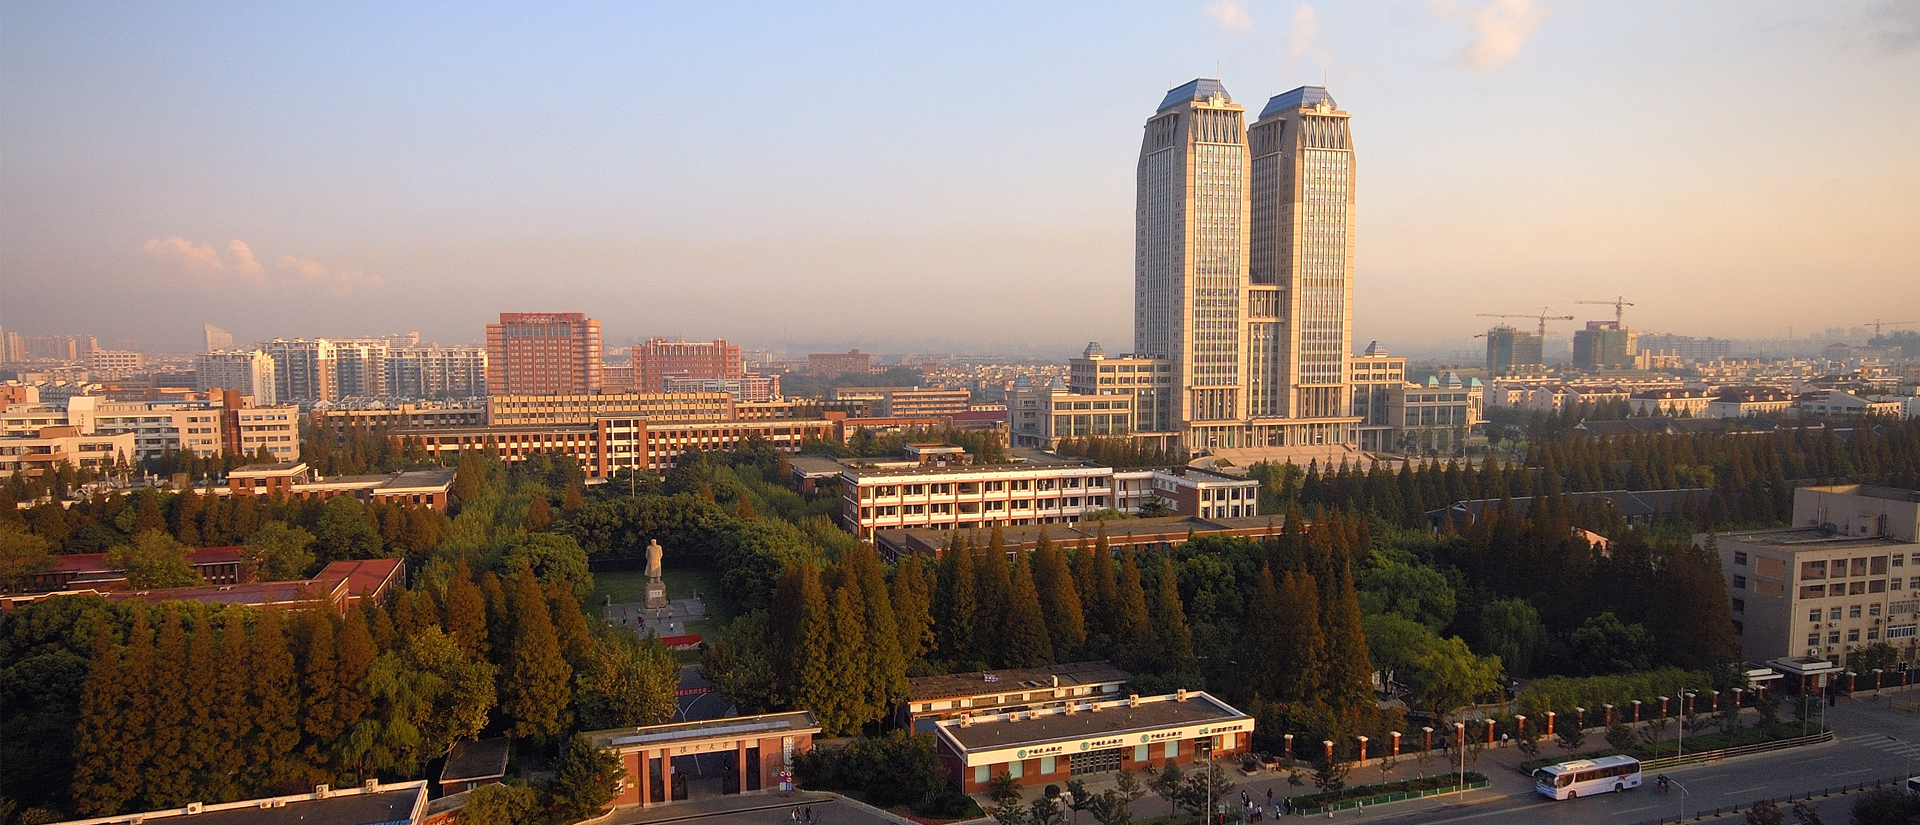
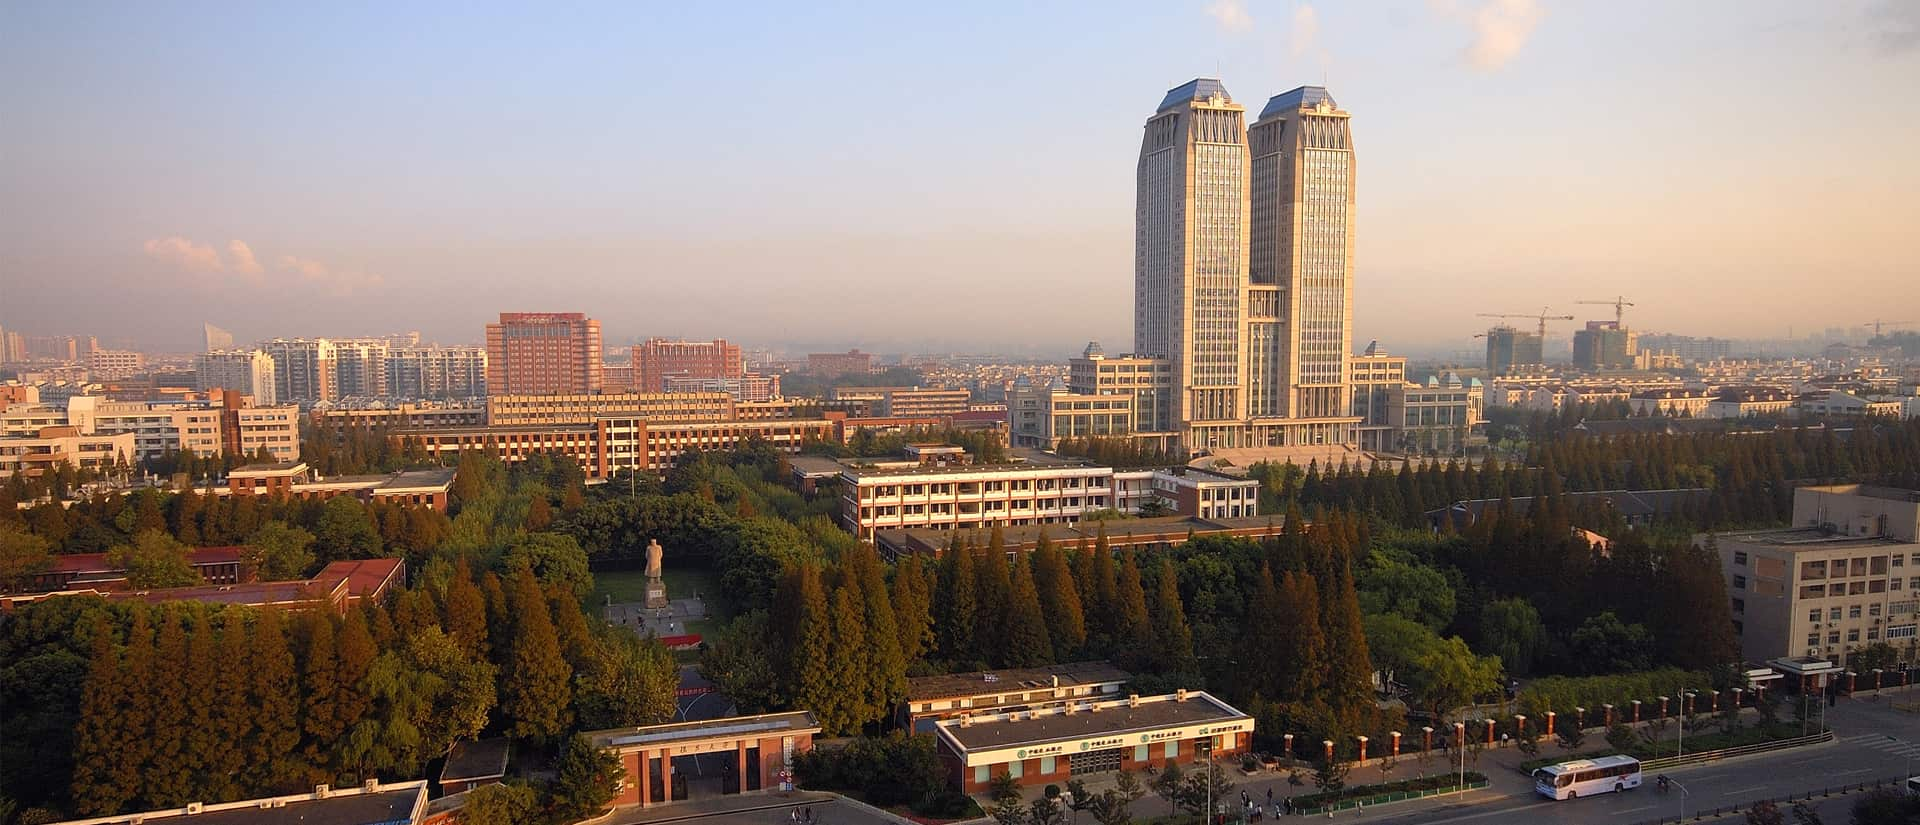
compress images

diff --git a/project.html b/project.html
@@ -65,7 +65,7 @@
 						Our software is novel since it only take 2D images to do this task.
 				</div>
 				<div class='project_image'>
-					<img style='width:300px;' src="./img/3d.png">
+					<img style='width:300px;' src="./img/3d.jpg">
 				</div>
 			</div>
 			<div class='clear'></div>
